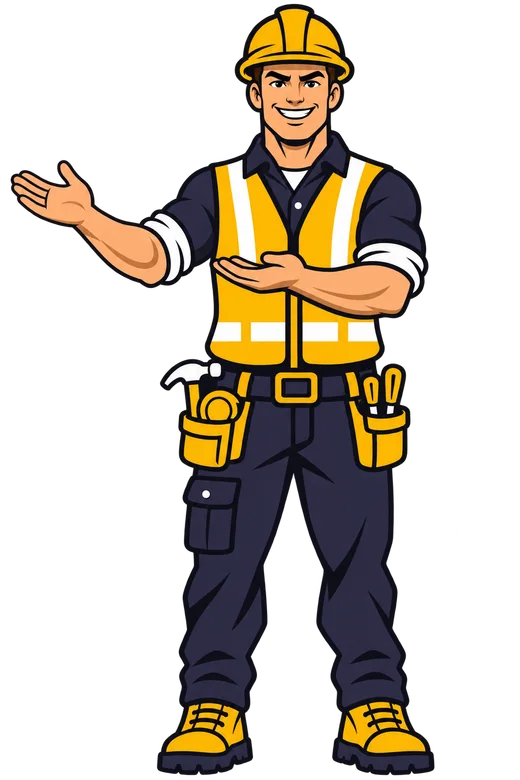
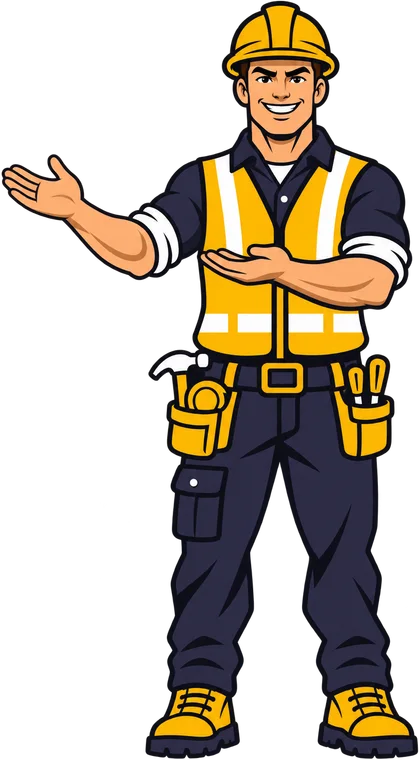
Jarvis Systems homepage: review1 fixes, opposite-side phone frame, preview no-send demo
Rows 2/4 use the measured opposite-angle frame; burger whenever nav hides;
reference padding and trimmed hero figure; short talk card with booking dialog;
preview demo simulates locally with no remote calls; kit OG card; two-row trades
and wavy connector; focused check:o2 regression script.

diff --git a/src/styles/o2.css b/src/styles/o2.css
@@ -39,12 +39,12 @@ body.o2{margin:0;font-family:Sora,Arial,sans-serif;color:#000;background:#fff;fo
 .menu__x{background:none;border:0;padding:8px;cursor:pointer;color:#000}
 .menu nav{display:grid;gap:4px;margin-bottom:24px}
 .menu nav a{font-weight:600;font-size:20px;text-decoration:none;color:var(--navy);padding:12px 0;border-bottom:1px solid #eee}
-@media (max-width:1240px){.hdr__nav,.hdr__tel{display:none}.hdr__cta{margin-left:auto}}
-@media (max-width:767px){.hdr__cta{display:none}.hdr__burger{display:block}.hdr__logo img{width:170px}}
+@media (max-width:1240px){.hdr__nav,.hdr__tel{display:none}.hdr__cta{margin-left:auto}.hdr__burger{display:block;margin-left:0}}
+@media (max-width:767px){.hdr__cta{display:none}.hdr__burger{margin-left:auto}.hdr__logo img{width:170px}}
 
 /* Hero: navy, H 76.8/1.2, left vertical rule, front mascot right */
 .hero{background:var(--navy);color:#fff;overflow:hidden}
-.hero__in{max-width:var(--w1320);margin:0 auto;padding:0 var(--pad) 0;display:flex;align-items:stretch;justify-content:space-between;min-height:780px;gap:24px}
+.hero__in{max-width:var(--w1320);margin:0 auto;padding:0 16px;display:flex;align-items:stretch;justify-content:space-between;min-height:780px;gap:24px}
 .hero__copy{padding:120px 0 110px;flex:1 1 auto;min-width:0;align-self:flex-start}
 .hero__h{font-weight:800;font-size:76.8px;line-height:1.2;border-left:2px solid #4b4f66;padding-left:42px;margin-bottom:56px}
 .hero__h span{display:block}
@@ -53,8 +53,8 @@ body.o2{margin:0;font-family:Sora,Arial,sans-serif;color:#000;background:#fff;fo
 .hero__act{display:grid;gap:14px;justify-items:start;flex:none}
 .hero__face{display:flex;align-items:center;gap:12px;font-size:15px;font-weight:600;color:#fff}
 .hero__face img{width:52px;height:52px;border-radius:50%;border:2px solid #fff;object-fit:cover}
-.hero__mascot{width:350px;flex:none;align-self:flex-end;margin-bottom:40px}
-@media (max-width:1240px){.hero__h{font-size:60px}.hero__row{flex-direction:column;gap:32px}.hero__mascot{width:300px}}
+.hero__mascot{height:748px;width:auto;flex:none;align-self:flex-end;margin-bottom:24px}
+@media (max-width:1240px){.hero__h{font-size:60px}.hero__row{flex-direction:column;gap:32px}.hero__mascot{height:600px}}
 @media (max-width:900px){.hero__mascot{display:none}.hero__in{min-height:0}}
 @media (max-width:767px){:root{--pad:16px}.hero__copy{padding:40px 0 48px}.hero__h{font-size:28px;padding-left:40px;margin-bottom:12px}.hero__lead{font-size:16px}}
 
@@ -95,7 +95,7 @@ body.o2{margin:0;font-family:Sora,Arial,sans-serif;color:#000;background:#fff;fo
 
 /* Features: 5 alternating rows, 580 visual + 612 text */
 .feats{padding:110px 0 40px}
-.feat{max-width:var(--w1320);margin:0 auto;padding:60px var(--pad);display:grid;grid-template-columns:580px minmax(0,612px);justify-content:space-between;align-items:center;gap:40px;min-height:797px}
+.feat{max-width:var(--w1320);margin:0 auto;padding:60px 16px;display:grid;grid-template-columns:580px minmax(0,612px);justify-content:space-between;align-items:center;gap:40px;min-height:797px}
 .feat--rev .feat__vis{order:2}
 .feat__h{font-weight:700;font-size:40px;line-height:1.25;color:var(--navy);margin-bottom:18px}
 .feat__q{font-style:italic;font-size:20px;line-height:1.55;margin-bottom:26px}
@@ -144,10 +144,11 @@ body.o2{margin:0;font-family:Sora,Arial,sans-serif;color:#000;background:#fff;fo
 .trades__h{font-weight:700;font-size:34px;line-height:1.3;max-width:var(--w1140);margin:0 auto 14px}
 .trades__text{color:var(--muted);max-width:720px;margin:0 auto 48px;font-size:18px}
 .car{max-width:var(--w1140);margin:0 auto;position:relative;display:flex;align-items:center;gap:12px}
-.car__track{display:grid;grid-auto-flow:column;grid-auto-columns:calc((100% - 48px)/3);gap:24px;overflow-x:auto;scroll-snap-type:x mandatory;scrollbar-width:none;flex:1;min-width:0}
+.car__track{display:grid;grid-auto-flow:column;grid-template-rows:repeat(2,auto);grid-auto-columns:calc((100% - 48px)/3);gap:24px;overflow-x:auto;scroll-snap-type:x mandatory;scrollbar-width:none;flex:1;min-width:0}
 .car__track::-webkit-scrollbar{display:none}
 .tcard{scroll-snap-align:start;background:#fff;border-radius:10px;overflow:hidden}
 .tcard img{width:100%;height:200px;object-fit:cover}
+.tcard--txt{background:#2A2E47;color:#fff}.tcard__ph{display:grid!important;place-items:center;height:200px;font-size:72px!important;font-weight:800!important;color:var(--gold)!important;padding:0!important;background:repeating-linear-gradient(135deg,#2A2E47 0 14px,#30344f 14px 28px)}.tcard--txt span:last-child{color:#fff}
 .tcard span{display:block;color:var(--navy);font-weight:700;font-size:22px;padding:16px 12px}
 .car__btn{flex:none;width:48px;height:48px;border-radius:50%;border:0;background:var(--gold);color:#fff;display:grid;place-items:center;cursor:pointer}
 .car__btn--prev .ico{transform:rotate(180deg)}
@@ -159,12 +160,12 @@ body.o2{margin:0;font-family:Sora,Arial,sans-serif;color:#000;background:#fff;fo
 
 /* Steps: 3 gold circles with dotted connector */
 .steps{padding:110px 0}
-.steps__row{max-width:var(--w1140);margin:72px auto 0;padding:0 16px;display:grid;grid-template-columns:repeat(3,1fr);gap:40px;text-align:center;position:relative}
-.steps__row::before{content:"";position:absolute;top:44px;left:18%;right:18%;border-top:4px dotted var(--gold)}
+.steps__row{max-width:var(--w1140);margin:72px auto 0;z-index:1;padding:0 16px;display:grid;grid-template-columns:repeat(3,1fr);gap:40px;text-align:center;position:relative}
+.steps{position:relative}.steps__wave{display:block;max-width:var(--w1140);width:calc(100% - 32px);height:120px;margin:72px auto -165px;position:relative}.steps__wave path{fill:none;stroke:var(--gold);stroke-width:4;stroke-dasharray:1 12;stroke-linecap:round;vector-effect:non-scaling-stroke}
 .steps__n{position:relative;display:grid;place-items:center;width:90px;height:90px;border-radius:50%;background:var(--gold);color:#fff;font-weight:800;font-size:40px;margin:0 auto 24px}
 .steps h3{font-weight:700;font-size:24px;color:var(--navy);margin-bottom:10px}
 .steps h3 small{display:block;font-size:16px;font-weight:600;color:var(--gold-ink)}
-@media (max-width:900px){.steps__row{grid-template-columns:1fr}.steps__row::before{top:40px;bottom:40px;left:50%;right:auto;border-top:0;border-left:4px dotted var(--gold)}.steps{padding:56px 0}.steps__row li{background:var(--grey);position:relative}}
+@media (max-width:900px){.steps__wave{display:none}.steps__row{grid-template-columns:1fr}.steps__row::before{content:"";position:absolute;top:40px;bottom:40px;left:50%;right:auto;border-top:0;border-left:4px dotted var(--gold)}.steps{padding:56px 0}.steps__row li{background:var(--grey);position:relative}}
 
 /* Why: 3×2 dark cards 316 wide */
 .why{padding:110px 16px}
@@ -233,3 +234,21 @@ body.o2{margin:0;font-family:Sora,Arial,sans-serif;color:#000;background:#fff;fo
 .js [data-in].is-in{opacity:1;transform:none}
 @media (prefers-reduced-motion:reduce){.js [data-in]{opacity:1;transform:none;transition:none}}
 @media (max-width:420px){.o2 .btn{white-space:normal;text-align:center;height:auto;min-height:60px;padding:10px 24px;line-height:1.2}.hero__act{width:100%}.hero__act .btn{width:100%}}
+
+/* Talk card: short reference card (~450px section); booking form lives in a dialog */
+.talk__card{grid-template-columns:minmax(0,1fr) 260px;padding:48px 0 0 64px}
+.talk__copy{padding-bottom:48px}
+.talk__mascot{width:260px}
+.bookdlg{border:0;border-radius:12px;padding:28px;width:min(560px,calc(100% - 24px));background:var(--navy);color:#fff}
+.bookdlg::backdrop{background:rgba(31,34,54,.7)}
+.bookdlg__top{display:flex;justify-content:space-between;align-items:center;gap:12px;margin-bottom:8px}
+.bookdlg h2{font-size:26px;font-weight:700}
+.bookdlg .menu__x{color:#fff}
+.bookdlg .muted{color:var(--muted);margin-bottom:16px}
+@media (max-width:900px){.talk__card{grid-template-columns:1fr;padding:36px 20px 0}.talk__mascot{width:170px}.talk__copy{padding-bottom:12px}}
+@media (max-width:600px){.car__track{grid-template-rows:auto}}
+.talk{padding:32px 16px 48px}
+.talk__card{grid-template-columns:minmax(0,1fr) auto;padding:40px 40px 0 64px}
+.talk__copy{padding-bottom:40px}
+.talk__mascot{width:auto;height:360px}
+@media (max-width:900px){.talk__card{grid-template-columns:1fr;padding:32px 20px 0}.talk__mascot{height:220px;margin:0 auto}}

diff --git a/src/scripts/o2.ts b/src/scripts/o2.ts
@@ -77,7 +77,9 @@ if (demo) {
     .then((r) => (r.ok ? r.json() : null)).then(classify).catch(() => 'unknown' as typeof mode)
     .then((m) => { clearTimeout(timer); mode = m; demo.querySelector<HTMLElement>('[data-sim-badge]')?.toggleAttribute('hidden', m !== 'simulator'); return m; });
   };
-  let health = checkHealth();
+  const preview = demo.dataset.build === 'preview';
+  // Review builds never contact the demo backend: no health request, no enquiry POST.
+  let health: Promise<typeof mode> = preview ? Promise.resolve('unknown') : checkHealth();
 
   demo.addEventListener('submit', async (e) => {
     e.preventDefault();
@@ -88,16 +90,19 @@ if (demo) {
     if (!ok) { demo.querySelector<HTMLElement>('[aria-invalid="true"]')?.focus(); return; }
     submit.disabled = true; const label = submit.textContent; submit.textContent = msgs.sending;
     status.textContent = ''; status.dataset.tone = '';
+    if (preview) {
+      // Local simulation only: nothing leaves the browser and nothing is stored.
+      const req = (service || 'svetaines forma').normalize('NFD').replace(/[\u0300-\u036f]/g, '').slice(0, 30);
+      status.dataset.tone = ''; status.textContent = msgs.ok.previewSim;
+      if (bubble) bubble.textContent = msgs.demoAck.replace('{req}', req);
+      if (simLabel) simLabel.hidden = false;
+      result?.classList.add('is-done');
+      demo.reset();
+      return;
+    }
     try {
       await health;
-      // Review builds re-check every time (the provider could have been switched since page load); live builds only when still unknown.
-      if (mode === 'unknown' || demo.dataset.build === 'preview') await (health = checkHealth());
-      // Review builds only talk to the simulator: if the backend reports real sending, nothing is posted from here.
-      if (demo.dataset.build === 'preview' && mode !== 'simulator') {
-        status.dataset.tone = 'err';
-        status.textContent = mode === 'live' ? msgs.ok.previewLive : msgs.ok.previewUnknown;
-        return;
-      }
+      if (mode === 'unknown') await (health = checkHealth());
       const res = await fetch(`${api}/api/public/enquiry/${tenant}`, {
         method: 'POST', credentials: 'omit', headers: { 'content-type': 'application/json' },
         body: JSON.stringify({ name: String(fd.get('name') ?? '').trim(), phone, service, website: String(fd.get('website') ?? '') }),
@@ -131,7 +136,16 @@ if (demo) {
   });
 }
 
-// ---------- 5. Booking ----------
+// ---------- 5. Booking (inside a <dialog>) ----------
+const bookDlg = document.querySelector<HTMLDialogElement>('[data-book-dialog]');
+let bookOpener: HTMLElement | null = null;
+document.querySelectorAll<HTMLElement>('[data-book-open]').forEach((o) => o.addEventListener('click', (e) => {
+  if (!bookDlg) return; e.preventDefault(); bookOpener = o; bookDlg.showModal();
+  bookDlg.querySelector<HTMLElement>('input[name="name"]')?.focus();
+}));
+bookDlg?.querySelector('[data-book-close]')?.addEventListener('click', () => bookDlg.close());
+bookDlg?.addEventListener('click', (e) => { if (e.target === bookDlg) bookDlg.close(); });
+bookDlg?.addEventListener('close', () => bookOpener?.focus());
 const book = document.querySelector<HTMLFormElement>('[data-book-form]');
 if (book) {
   const msgs = JSON.parse(book.dataset.messages ?? '{}');
@@ -173,3 +187,7 @@ if (book) {
     }
   });
 }
+
+// Forms ship with submit disabled so a no-JS visitor can never native-submit; enable once listeners are attached.
+document.querySelectorAll<HTMLButtonElement>('[data-demo-form] button[type=submit], [data-book-form] button[type=submit]').forEach((b) => { b.disabled = false; });
+document.querySelectorAll<HTMLElement>('[data-nojs]').forEach((n) => { n.hidden = true; });

diff --git a/src/data/o2.js b/src/data/o2.js
@@ -47,7 +47,9 @@ export const o2 = {
     privacyLink: 'Privatumo politika',
     submit: 'Išbandyti', sending: 'Tikrinama…',
     simBadge: 'Bandomasis režimas: tikra SMS neišsiunčiama, užklausa tik įrašoma.',
-    phoneTitle: 'Ką gautų klientas', phoneNote: 'Pavyzdys. Kol SMS tiekėjas neprijungtas, tai simuliacija.',
+    previewBadge: 'Peržiūros režimas: demonstracija vyksta tik Jūsų naršyklėje. Niekas nesiunčiama ir neišsaugoma.',
+    noJs: 'Demonstracijai reikia JavaScript. Galite tiesiog paskambinti.',
+    phoneTitle: 'Ką gautų klientas', phoneNote: 'Pavyzdys. SMS tiekėjas dar neprijungtas, todėl tai simuliacija.',
     idleBubble: 'Čia atsiras žinutė, kurią gautų Jūsų klientas.',
     ok: {
       live: 'Užklausa gauta. SMS turėtų ateiti į {phone}. Atsakykite į ją – pamatysite, kaip atrodo pokalbis.',
@@ -57,6 +59,7 @@ export const o2 = {
       unknown: 'Užklausa gauta, bet nepavyko patikrinti, ar SMS išsiųsta. Jei žinutės nesulauksite, susisieksime patys.',
       sim: 'Užklausa įrašyta. Demo veikia bandomuoju režimu, todėl tikra SMS neišsiųsta. Štai ką gautumėte:',
       simLabel: 'Simuliacija – realiai neišsiųsta',
+      previewSim: 'Peržiūros režimas: niekas neišsiųsta ir neišsaugota. Tai vietinė simuliacija – štai ką gautų klientas:',
     },
     errors: {
       phone: 'Patikrinkite telefono numerį, pvz., +370 612 34567.',
@@ -181,7 +184,7 @@ export const o2 = {
     text: '15–20 minučių. Parodysime, kaip tai veiktų Jūsų versle. Jei netiks – pasakysime patys.',
     name: 'Vardas', phone: 'Telefono numeris', company: 'Įmonė ar veikla (nebūtina)', time: 'Kada patogu?',
     times: [['morning', 'Rytą'], ['day', 'Dieną'], ['evening', 'Vakare']],
-    submit: 'Užsiregistruoti pokalbiui', sending: 'Siunčiama…',
+    submit: 'Užsiregistruoti pokalbiui', open: 'Užsiregistruoti pokalbiui', dialogTitle: 'Užsiregistruoti pokalbiui', close: 'Uždaryti', sending: 'Siunčiama…',
     ok: 'Ačiū{name}. Paskambinsime {time}.',
     timesSpoken: { morning: 'rytą', day: 'dieną', evening: 'vakare', '': 'artimiausiu metu' },
     previewNote: 'Peržiūros versija: ši forma nieko nesiunčia.',

diff --git a/src/data/o2-device.js b/src/data/o2-device.js
@@ -4,12 +4,17 @@
    projected onto that quad with matrix3d (square→quad homography, Heckbert). Dynamic Island box is a
    pixel copy of the same frame drawn above the overlay. */
 export const CANVAS = { w: 1080, h: 1336 };
-export const GLASS = [[336, 90], [789, 84], [870, 1128], [430, 1188]];
-export const ISLAND = { x: 519, y: 103, w: 122, h: 54 };
+/* Glass quads measured 2026-11-07 by fitting the inner black bezel line of each frame's own pixels
+   (TL, TR, BR, BL on the 1080×1336 canvas). "right" is the separately generated opposite-angle
+   sibling (docs/jarvis-stone-lt-review/opposite-phone-provenance.md), not a mirror. */
+export const FRAMES = {
+  left: { src: '/jarvis-systems/phone.webp', quad: [[325, 90], [789, 82], [879, 1129], [436, 1187]], island: { x: 523, y: 105, w: 114, h: 49 } },
+  right: { src: '/jarvis-systems/phone-right-mascot.webp', quad: [[302, 89], [761, 79], [645, 1191], [189, 1121]], island: { x: 452, y: 105, w: 122, h: 49 } },
+};
 export const SCREEN_W = 390;
 export const SCREEN_H = 900;
 
-export function glassMatrix(quad = GLASS, w = SCREEN_W, h = SCREEN_H) {
+export function glassMatrix(quad, w = SCREEN_W, h = SCREEN_H) {
   const [[x0, y0], [x1, y1], [x2, y2], [x3, y3]] = quad;
   const dx1 = x1 - x2, dx2 = x3 - x2, dx3 = x0 - x1 + x2 - x3;
   const dy1 = y1 - y2, dy2 = y3 - y2, dy3 = y0 - y1 + y2 - y3;

diff --git a/.agents/handoffs/2026-11-07-claude-stone-lt-review1-fixes.md b/.agents/handoffs/2026-11-07-claude-stone-lt-review1-fixes.md
@@ -1,0 +1,38 @@
+# Handoff: Jarvis Systems Stone LT homepage — review1 fixes (implementation retry 2)
+From: claude (Opus 5.5, stage jarvis-stone-lt-rebuild) · To: Codex lead (root review2) · Date: 2026-11-07 Europe/Vilnius
+
+## Objective
+Apply Codex review1 (`docs/jarvis-stone-lt-review/review1.md`, Verdict: changes requested) plus Matas's opposite-side phone request; stop source edits for root review2.
+
+## State
+- Worktree `/Users/matasbasinskas/.ai-powerhouse/worktrees/JarvisCo/t3-055c6b85`, branch `t3/055c6b85`. Lead commit e639173 cherry-picked as deebcc9; fixes in the commit adding this file.
+- Local preview `http://127.0.0.1:4377/` (`npx astro preview`, dist built with `O2_DRAFTS=1 O2_BOOKING=preview`), T3 tab `tab_18_b2b7da01-aed9-4db4-8f27-cafeabbfa56e`.
+
+## Fixes (review item → change)
+1. Opposite phone: rows 2/4 use `phone-right-mascot.webp`, rows 1/3/5 `phone.webp`; each frame has its own glass quad + island measured by line-fitting the inner bezel of its pixels (`src/data/o2-device.js` FRAMES). Not mirrored.
+2. Tablet nav: burger shows whenever nav hides (≤1240); header CTA kept 768–1240, hidden ≤767.
+3. Hero/feature inner padding 16 px (H1 x=74 at 1440 vs Stone 76). Mascot derivatives trimmed of transparent margins (sharp trim on the presentation WebP; kit files untouched); hero figure renders 274×748 at ≥1240, 220×600 at 1024, hidden ≤900.
+4. Talk card short: title, text, one CTA (`<a href=tel data-book-open>` → opens booking `<dialog>`; no-JS falls back to a phone call), presenter mascot right. Booking form unchanged inside the dialog; close button, Escape, backdrop click, focus to first field and back to opener.
+5. Preview demo: no health GET, no enquiry POST; local simulation with "niekas neišsiųsta ir neišsaugota" + simulation label and a preview badge. Live path (health→enquiry) kept for production builds only. Both form submits ship `disabled` and are enabled by o2.ts; `<noscript>` call fallback in the demo.
+6. OG: `/jarvis-systems/og-1200x630.jpg` (kit website/og) with width/height meta; other pages keep og-v4.
+- Polish: two-row trades carousel (5 own illustrations interleaved with text-only niche cards, ≤600 one row); wavy dotted SVG connector on desktop, vertical dotted line ≤900.
+- New focused check `npm run check:o2` (src/checks/o2-check.mjs): og card, frame alternation, disabled submits, booking dialog/no inline talk form, preview no-remote ordering, burger breakpoint, hero height, two-row carousel + wave.
+
+## Checks run
+- Production `npm run build` → copy-check 13 ok; `check:o2` ok (production); static-check ok; check:js 13 pages within budget.
+- Preview build (`O2_DRAFTS=1 O2_BOOKING=preview`) → copy ok, `check:o2` ok (preview), static ok; `git diff --check` ok; og + right frame 200.
+- T3 iframes at 320/390/768/1024/1280/1440: no horizontal overflow; burger visible exactly where nav hidden; Resource Timing shows 0 requests to workers.dev or /t/form after load AND after demo + booking submits (768, 1440); demo shows preview simulation + label; booking dialog opens, focus on name, previewOk, closes with focus back on opener. Menu opens at 768.
+- Visual: 1440 row 2 (right frame) — glass fit, island above overlay, mascot right with elbow contact, text unmirrored.
+
+## Not verified / remaining
+- Talk section re-measured after commit: 480 px section / 400 px card at 1440 (Stone ~450); 666 px at 390 (stacked mascot).
+- Full-scroll side-by-side Stone comparison still not done section-by-section; steps wave, trades two rows, FAQ, talk card, footer not visually inspected after changes.
+- Reduced motion only by CSS rule; no pre-load CDP network barrier run (preview path makes no remote calls by construction and Resource Timing confirmed 0).
+- Menu focus-return in the 768 test failed only because the test clicked without focusing first (390 test with focus passed earlier); not re-tested by keyboard.
+- Glass quads are line-fit; rounded corner radius eyeballed.
+
+## External actions
+None (no deploy, sends, purchases, backend/app edits).
+
+## Next action + owner
+Codex lead: review2 of `git diff e04a251...t3/055c6b85`, full-scroll visual acceptance. Then Matas reviews wording on the preview.

diff --git a/docs/OFFER2-ASSETS.md b/docs/OFFER2-ASSETS.md
@@ -7,14 +7,16 @@ All files in `public/jarvis-systems/` come from the approved kit (Drive `Busines
 | `logo-on-white.webp` (560×205) | `logo/logo-on-white.png` | header, 200 px wide |
 | `logo-on-navy.webp` (560×205) | `logo/logo-on-navy.png` | footer |
 | `favicon/*` | `favicon/*` (mascot favicon) | `<link rel=icon>` / apple-touch |
-| `mascot-arms-crossed.webp` (700×1050) | `mascot/pose-arms-crossed.png` | hero, right, hidden ≤900 px |
-| `mascot-present.webp` (520×780) | `mascot/pose-present-left.png` | talk card, right |
-| `phone.webp` (1080×1336) | `website/feature-phone-1080x1336.png` | five feature visuals; mascot elbow contact is part of the approved image |
+| `mascot-arms-crossed.webp` (403×1100, transparent margins trimmed) | `mascot/pose-arms-crossed.png` | hero, right, hidden ≤900 px |
+| `mascot-present.webp` (419×760, trimmed) | `mascot/pose-present-left.png` | talk card, right |
+| `phone.webp` (1080×1336) | `website/feature-phone-1080x1336.png` | feature rows 1/3/5 (mascot left); elbow contact is part of the approved image |
+| `phone-right-mascot.webp` (1080×1336) | lead-generated opposite-angle sibling, see `docs/jarvis-stone-lt-review/opposite-phone-provenance.md` | feature rows 2/4 (mascot right) |
+| `og-1200x630.jpg` | `website/og-1200x630.jpg` | homepage share card |
 | `fonts/sora-{400,600,700,800}.woff2`, `Sora-OFL.txt` | `website/fonts/`, `editable-source/branding/fonts/Sora-OFL.txt` | only font on the page |
 | `trades/*.webp` | `src/templates/heating/assets/demo-*-768.webp` (own ChatGPT-imagegen illustrations, see that folder's PROVENANCE.md) | trades carousel, captioned as illustrations, not client work |
 
 ## Phone screen overlay
-The kit frame has a blank screen. `src/data/o2-device.js` holds the glass quad measured from the frame's own pixels (TL 336,90 · TR 789,84 · BR 870,1128 · BL 430,1188 on the 1080×1336 canvas) and turns it into a `matrix3d`. `src/components/o2/Phone.astro` draws frame → HTML screen → a pixel copy of the Dynamic Island on top. `o2.ts` scales the 1080 px stage to its box. Screen content is illustrative (labelled "Pavyzdys" and captioned).
+Both frames have blank screens. `src/data/o2-device.js` `FRAMES` holds each glass quad, fitted to the inner bezel line of the frame's own pixels (left: TL 325,90 · TR 789,82 · BR 879,1129 · BL 436,1187; right: TL 302,89 · TR 761,79 · BR 645,1191 · BL 189,1121; islands 523,105 114×49 and 452,105 122×49) and turns it into a `matrix3d`. `src/components/o2/Phone.astro` draws frame → HTML screen → a pixel copy of the Dynamic Island on top. `o2.ts` scales the 1080 px stage to its box. Screen content is illustrative (labelled "Pavyzdys" and captioned).
 
 ## Not used / still missing
 - Stone proof blocks with no Jarvis equivalent: testimonials (2nd slot), press, partners → omitted.
